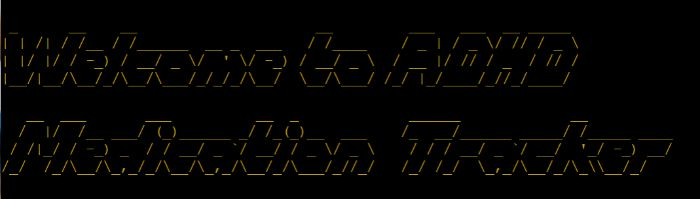
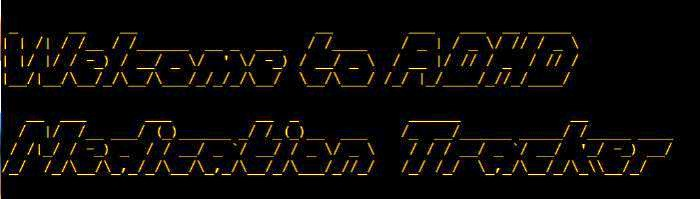
Docs:change screenshot brigtness and replace in README.

diff --git a/TESTING.md b/TESTING.md
@@ -10,10 +10,11 @@
   ***
 
   ## **Testing Phase:**
-
   ### **Bugs**
 
   ### **Validator Testing**
+  
+  ![]
 
   ### **Accessibility Testing:**
 
